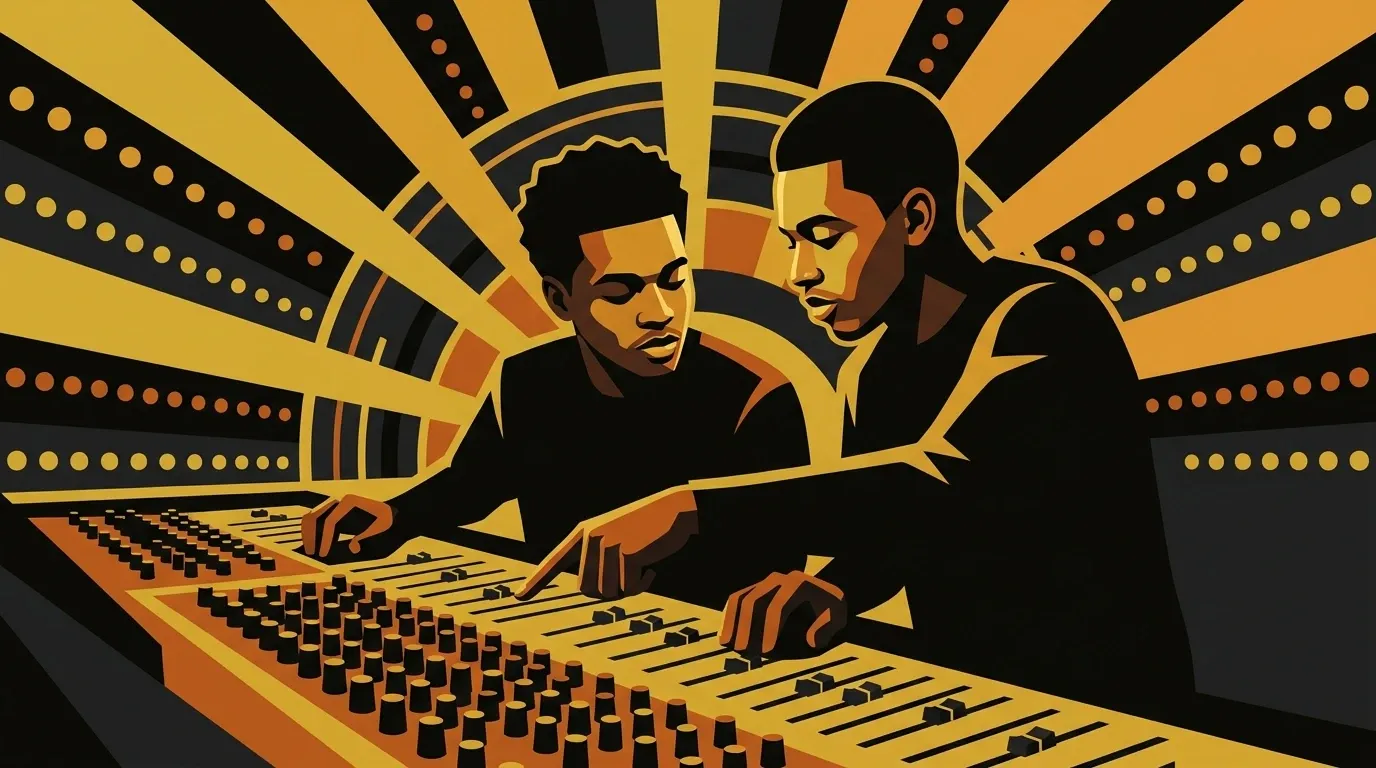
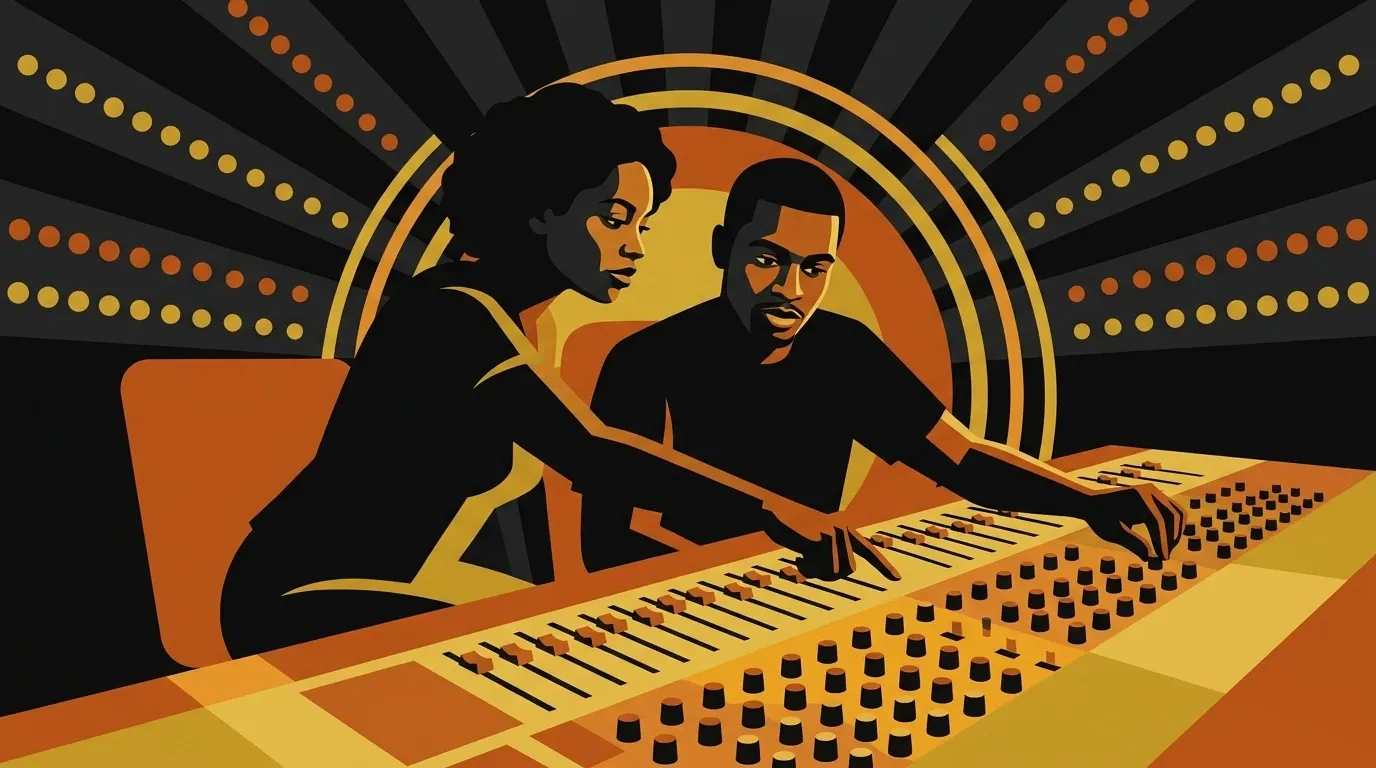
Brand imagery is flat vector poster art, mixed 65/35, and the hero fold is structural
THE STANDING RULE. Every image generated for the app or an email is now a flat
vector poster illustration, not photography: five-colour palette on near-black,
no gradients, no text inside the image, WebP not JPEG, generated at the ratio of
the slot it renders in. Written into CLAUDE.md, replacing the cinematic
photography rule set on 2026-07-11.

THE MIX. The first fifteen images came out about 93% male, for a boring reason:
every prompt said "artist" and the model returns a man almost every time. The
artist base is expected to run about 65/35, so the rule now says name the gender
in each prompt and count the finished set before shipping. Five images are
redrawn with a woman leading and the two-hander is now mixed, taking the set to
10 male / 5 female across identifiable lead figures, which is 67/33. Existing
photography stays until its surface is next touched; this governs what gets
generated and is not a licence for a mass re-shoot.

THE FOLD. The CTA was below the fold on the homepage, which is twice now that a
hand-computed height budget has been wrong on a real screen. The cause is that
the copy block has no fixed height: the headline wraps to two or three lines
depending on the tool and the viewport, and every estimate of it was optimistic.
So it is no longer budgeted. On desktop the hero is exactly one viewport tall,
the copy is shrink-0 and takes what it needs, and the image is flex-1 and absorbs
[…]

diff --git a/src/components/lead-magnets/ToolHero.tsx b/src/components/lead-magnets/ToolHero.tsx
@@ -9,17 +9,22 @@ import Image from 'next/image';
 // desktop grid with the image beside the copy, which put the artwork and the headline in a reading
 // race and left the CTA hanging off the left edge of a half-width column.
 //
-// THE CONSTRAINT THAT SHAPES EVERYTHING HERE: the CTA must stay above the fold. Stacking the image
-// on top spends vertical space that the side-by-side layout got for free, so the artwork is drawn
-// at 16:9 and rendered at full column width with a `max-h` viewport cap. 16:9 is the whole trick:
-// at this column width it costs ~378px of height where 4:3 would cost ~500px, which is the
-// difference between the button sitting above the fold and below it.
+// THE CTA MUST STAY ABOVE THE FOLD, AND IT IS GUARANTEED BY CONSTRUCTION, NOT BY ARITHMETIC.
 //
-// Worst realistic case, a 1366x768 desktop (~660px of viewport): the 42vh cap binds at ~277px of
-// image, plus ~24px gap and ~320px of copy and button, so ~620px inside ~660px. A 390x844 phone has
-// far more room. So: before changing any height here, or adding an element, re-measure on a
-// 1366x768 desktop AND a 375x667 phone. Growing the image or the type a little is exactly how the
-// button falls off.
+// Two earlier versions budgeted it by hand ("a 42vh image plus ~320px of copy fits in 660px") and
+// both were wrong on a real screen, because the copy block is not a fixed height: the headline
+// wraps to two or three lines depending on the tool and the viewport width, and every estimate of
+// it was optimistic. Guessing harder was not going to work.
+//
+// So on desktop the hero is exactly one viewport tall and the IMAGE ABSORBS THE REMAINDER: the copy
+// is `shrink-0` and takes the height it needs, the image is `flex-1` and takes whatever is left.
+// The button therefore cannot be pushed off screen by a headline that wraps, and the artwork is
+// automatically as large as that particular page can afford. Mobile keeps natural flow at 16:9,
+// where there was never a shortage of room.
+//
+// The practical rule if you edit this: you may add or remove copy freely, and the image will give
+// or take the space. What you must NOT do is give the image a fixed or aspect-derived height on
+// desktop again, because that is what put the button below the fold both times.
 export function ToolHero({
   eyebrow,
   headline,
@@ -40,33 +45,30 @@ export function ToolHero({
   onStart: () => void;
 }) {
   return (
-    <div className="mx-auto flex max-w-2xl flex-col items-center text-center gap-5 md:gap-6 py-2 md:py-4">
+    <div
+      className={
+        'mx-auto flex max-w-2xl flex-col items-center text-center gap-4 md:gap-5 ' +
+        // Desktop: exactly one viewport, minus the chrome above (nav or the "All tools" control)
+        // and this page's own padding. `max-h` stops the hero becoming a poster on a tall monitor.
+        'md:h-[calc(100svh-8rem)] md:max-h-[760px]'
+      }
+    >
       {/*
-        FULL COLUMN WIDTH at 16:9, with a viewport cap as the safety net.
-
-        The previous version sized by height (`h-[34vh] aspect-[4/3]`) so the artwork could never
-        outgrow the fold, and it worked, but it made the image only about 60% of the column width
-        and it read as small. The real constraint was the RATIO, not the pixel budget: a 4:3 image
-        in this column is either wide enough to fill it and ~500px tall, or short enough to fit and
-        too narrow. The heroes are now drawn at 16:9, so full width costs ~378px of height instead
-        of ~500px and nothing has to be cropped.
-
-        `max-h` is what keeps the CTA above the fold on a short laptop: the aspect ratio sets the
-        natural height, and the cap takes over when the viewport cannot afford it (object-cover
-        trims top and bottom rather than letterboxing).
+        The image is the FLEXIBLE element. On desktop it has no height of its own: `flex-1` hands it
+        whatever the copy below did not take, so it is always the largest it can be on that screen
+        and it can never be the reason the button is off screen. `min-h-0` is required or a flex
+        child refuses to shrink below its content. Mobile keeps the natural 16:9 block.
       */}
-      <div className="relative w-full aspect-[16/9] max-h-[38vh] md:max-h-[42vh] shrink-0 rounded-2xl overflow-hidden border border-crwn-elevated">
+      <div className="relative w-full aspect-[16/9] md:aspect-auto md:flex-1 md:min-h-0 rounded-2xl overflow-hidden border border-crwn-elevated">
         <Image src={image} alt={imageAlt} fill priority sizes="(max-width: 768px) 100vw, 672px" className="object-cover" />
         <div className="absolute inset-0 bg-gradient-to-t from-crwn-bg/70 via-transparent to-transparent" />
       </div>
 
-      <div className="flex flex-col items-center text-center">
+      {/* `shrink-0`: the copy takes the height it needs and the image yields, never the reverse. */}
+      <div className="w-full shrink-0 flex flex-col items-center text-center">
         {eyebrow && <div className="text-xs font-semibold uppercase tracking-wide text-crwn-gold mb-2">{eyebrow}</div>}
         <h1 className="text-3xl md:text-4xl font-bold text-crwn-text leading-tight">{headline}</h1>
         <p className="text-base text-crwn-text-secondary mt-3 leading-relaxed">{subheadline}</p>
-        <p className="text-xs text-crwn-text-secondary mt-4">Takes about {timeToComplete}. Free.</p>
-        {/* No `mt-auto` any more: the column is content-sized, so the button sits directly under
-            the copy rather than being pushed to the bottom of a full-screen box. */}
         <div className="w-full mt-5">
           <button
             onClick={onStart}
@@ -75,6 +77,9 @@ export function ToolHero({
             {ctaLabel}
           </button>
         </div>
+        {/* Moved BELOW the button. It is reassurance about the click, not a prerequisite for it,
+            and above the button it was pure cost between the promise and the action. */}
+        <p className="text-xs text-crwn-text-secondary mt-3">Takes about {timeToComplete}. Free.</p>
       </div>
     </div>
   );

diff --git a/src/lib/leadMagnets/toolPositioning.test.ts b/src/lib/leadMagnets/toolPositioning.test.ts
@@ -207,16 +207,21 @@ describe('every headline opens on a brand photograph', () => {
     expect(toolHeroCode).not.toMatch(/md:order-/);
   });
 
-  it('keeps the CTA above the fold with a viewport cap on the hero image', () => {
-    // Stacking spends vertical space the old two-column layout got for free. The artwork is drawn
-    // at 16:9 so full column width costs ~378px of height instead of the ~500px a 4:3 image would,
-    // and a max-height in viewport units is the safety net when a short laptop cannot afford that.
-    // Without the cap the image grows with the column and the button falls off the screen.
-    expect(toolHeroCode).toMatch(/w-full aspect-\[16\/9\] max-h-\[\d+vh\] md:max-h-\[\d+vh\]/);
+  it('keeps the CTA above the fold BY CONSTRUCTION, not by a height budget', () => {
+    // Two earlier versions budgeted the fold by hand and both were wrong on a real screen, because
+    // the copy block is not a fixed height: the headline wraps to two or three lines depending on
+    // the tool and the viewport. So on desktop the hero is exactly one viewport tall, the copy is
+    // `shrink-0`, and the image is `flex-1` and absorbs whatever is left. A headline that wraps now
+    // costs the image height, never the button its place on screen.
+    expect(toolHeroCode).toMatch(/md:h-\[calc\(100svh-\d+rem\)\]/);
+    expect(toolHeroCode).toMatch(/md:flex-1 md:min-h-0/);
+    expect(toolHeroCode).toMatch(/shrink-0 flex flex-col items-center text-center/);
+    // The regression to guard against: any fixed or aspect-derived image height on DESKTOP puts
+    // the budget back and the button below the fold with it.
+    expect(toolHeroCode).not.toMatch(/md:max-h-\[\d+vh\]/);
+    expect(toolHeroCode).not.toMatch(/md:h-\[\d+vh\]/);
     expect(toolHeroCode).not.toMatch(/aspect-\[4\/3\]/);
-    // And the button is no longer pushed to the bottom of a full-screen box.
     expect(toolHeroCode).not.toMatch(/mt-auto/);
-    expect(toolHeroCode).not.toMatch(/min-h-\[calc\(100svh/);
   });
 
   it('keeps the section images below the fold, so they never race the hero', () => {

diff --git a/CLAUDE.md b/CLAUDE.md
@@ -100,12 +100,41 @@ not upside. Gain-framed: "One clear mission beats 'please support me.'" Loss-fra
 "'Please support me' is why your fans do nothing." Name the cost of inaction (money not earned,
 fans not converted, reach going to someone else) first, then the fix.
 
-## Brand Photos — dark + gold, artists aged 18-32
+## Brand Imagery — flat vector poster art, dark + gold, artists aged 18-32
 
-Photos must be cinematic and on-brand: near-black charcoal (#0D0D0D) with warm gold (#D4AF37)
-accent light. People are optional, but anyone shown must be a Black (African American) hip hop or
-R&B artist who reads as **age 18 to 32**. State the age explicitly in the generation prompt, or
-the model drifts middle-aged. Always look at the image before shipping it.
+**Every image generated for the app or for an email is a FLAT VECTOR POSTER ILLUSTRATION**
+(founder decision, 2026-08-15, replacing the previous cinematic-photography rule). Bold geometric
+colour blocks, a near-black silhouette figure with a few sculpted flat highlight planes, radiating
+sunburst rays, concentric arcs and repeating dot rows, hard vector edges. **No gradients, no
+photographic texture, no realism, no soft shading, no 3D, no drop shadows.**
+
+- **Palette is exactly five**: near-black `#0D0D0D`, deep charcoal `#1A1A1A`, warm gold `#D4AF37`,
+  amber `#E8A33D`, burnt orange `#C2571A`, on a predominantly near-black background so the art sits
+  on a dark page. Do not introduce a sixth colour, and do not drift to bright red-orange: that
+  fights the gold CTAs and reads as a second brand.
+- **No text, letters, numbers, logos or watermarks inside the image, ever.** The page supplies the
+  words. A model that renders type will render it wrong.
+- **Anyone shown is a Black (African American) hip hop or R&B artist reading age 18 to 32.** State
+  the age explicitly in the prompt or the model drifts middle-aged.
+- **Gender mix is roughly 65% male / 35% female across the set, not per image.** The artist base is
+  expected to run about 65/35, and the imagery should look like the people it is for. The first
+  generated set came out ~93% male purely because every prompt said "artist" and the model defaulted
+  to men, so **name the gender in each prompt** and count the finished set before shipping it.
+  Groups and crowds are mixed by default.
+- **Encode as WebP, never JPEG.** Flat colour and hard edges are the worst case for DCT: the same
+  artwork is ~90% smaller as WebP with no visible loss (4.8 MB to 475 KB across one nine-image set).
+- **Match the aspect ratio to the slot it renders in** (16:9 for the hero and section bands today).
+  Generating 4:3 for a wide slot forces a choice between a crop and an image too small to carry the
+  page.
+- **Always open and look at every image before shipping it.** The age, the gender and the palette
+  are all checked by looking, not by trusting the prompt.
+
+Reference implementation: `src/lib/positioning/sectionImages.ts` (the nine section images and why
+each composition was paired with its section), `public/hero-*.webp` and `public/section-*.webp`.
+
+**Existing photography stays until the surface it sits on is next touched.** The 14 paused
+calculators, `studio_*.jpg` and `homepage_*.jpg` are still photographic; this rule governs what is
+GENERATED from now on, and does not license a mass re-shoot nobody asked for.
 
 ## Copy Rule — NEVER use em dashes
 
